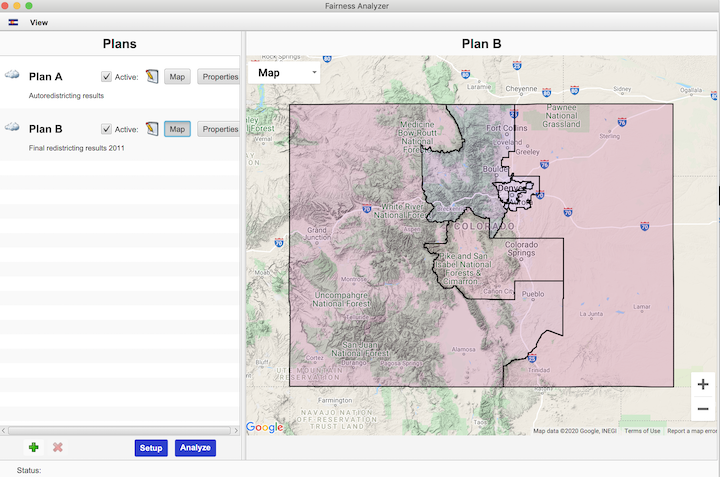
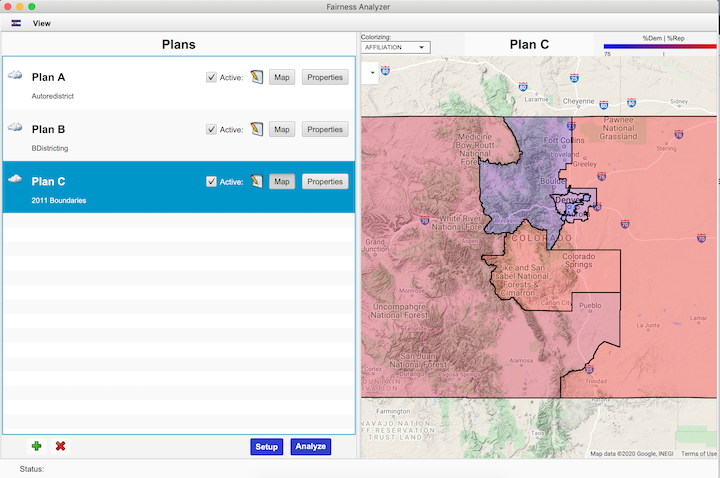
Doc updates.

diff --git a/docs/user-guide.md b/docs/user-guide.md
@@ -1,10 +1,10 @@
 ## Redistrict Colorado
 ## User Guide
 *FairnessAnalyzer* is designed to answer the question "Which is fairer?" when dealing with competing redistricting plans. The user configures plans and controls their evaluation based on a collection of external datasets which contain
-district geometries, voter
-affiliation and demographic information. This guide walks through the use and installation of the application.  
+plan geometries, voter
+affiliation and demographic information. The application computes an array of metrics for the purpose of comparing two or more redistricting plans for fairness. See the [Comparisons](#Comparisons) page to view the final results.
 
- The application computes an array of metrics for the purpose of comparing two or more redistricting plans for fairness. The criteria used are largely based on the work of Kevin Baas and his [autoredistrict](http://autoredistrict.org/index.php) project.
+ This guide walks through the use and installation of the application.
 
  ### Table of Contents <a id="table-of-contents"></a>
 
@@ -13,6 +13,7 @@ affiliation and demographic information. This guide walks through the use and in
     * [Calculations](#calculations)
       * [Setup](#setup)
       * [Metrics](#metrics)
+      * [Comparisons](#comparisons)
  * [Datasets](#datasets)
     * [Attribute Aliases](#aliases)
     * [Sources](#sources)
@@ -21,12 +22,12 @@ affiliation and demographic information. This guide walks through the use and in
 
 ### Overview <a id="overview"></a>
 
-![SplitPane](/images/application_plans.png)
+![SplitPane](/images/splash_screen.png)
 ```                  Splash Screen     ```
 
 The application's main interface is a split pane with
 actions in the left side controlling what is displayed on the right. A *View* menu controls which of three contexts is displayed. The contexts are:
- * Plans - these are the redistricting plans. Each plan is based on a dataset containing voting district boundaries. The plan context includes a setup pane for configuration of the weightings, affiliation and demographic datasets necessary for plan evaluation. Most importantly, this context includes an analysis screen which shows the result of side-by-side comparisons.
+ * Plans - these are the redistricting plans. Each plan is based on a dataset containing voting district boundaries. The plan dialogs include a setup pane for configuration of the weightings, affiliation and demographic datasets necessary for plan evaluation. Most importantly, there is an analysis screen which shows the result of side-by-side comparisons.
  * Datasets - a dataset holds information necessary for the construction and evaluation of a plan. Datasets are not part of the application as distributed, but are loaded in from files downloaded independently. Datasets correspond to a "shapefile" and contain geographic and other information.
  * Districts - a voting district is one of the regions of a dataset. The purpose of the *district* screen is to view boundary details of a dataset.
 
@@ -35,20 +36,23 @@ actions in the left side controlling what is displayed on the right. A *View* me
 
 ### Plans <a id="plans"></a>
 The figure below shows the plan superimposed over a Google Map. The Google Map has
-controls for pan, zoom and map type. The map is colorized to indicate the
-predominant affiliation within each district. Additionally a 'click' within a
-district will popup an information window with metrics for that district.
+controls for pan, zoom and map type. As shown map areas are colored to indicate the
+predominant affiliation within each district. The legend shows the numerical range
+associated with the color range. Other colorizing options include color coding by
+racial makeup of the district, and no colorization at all.
 
 ![MapOverlay](/images/plan_map.png)
 ```                  Plan Overlay Onto Google Maps     ```
 
-This view is accessible only if there is a current internet connection.
+A 'click' within a
+district will popup an information window with metrics for that district. Map views are accessible only if there is a current internet connection
+and the user has entered a valid Google key.
 
-The next figure shows the plan context after selection of a "Properties" button. The screen shows aggregated quantities by district
+The next figure shows the plan dialog after selection of a "Properties" button. The screen shows aggregated quantities by district
 based on the boundary, affiliation and demographics datasets selected for the analysis. When this page is first selected,
-application computes the aggregated values. This is a compute-intensive
+the application computes aggregated values. This is a compute-intensive
 process and may take as long as a minute or two. Once the
-calculations have been made, results are cached for speedy access.
+calculations have been made, results are cached for speed in subsequent accesses.
 
 ![Plan Properties](/images/plan_properties.png)
 ```                  Plan Properties     ```
@@ -75,7 +79,7 @@ Before the comparison can be made, the criteria for making that comparison must 
 ![Setup](/images/metric_setup.png)
 ```                  Comparison Setup    ```
 
-Additionally, parameters are defined for each of the separate metrics (with the exception of the `Composite`). This includes a weighting that defines the relative importance of the particular metric. A range is also set to define the best and worst possible numeric values for the metric. This allows the values to be reasonably scaled with respect to each other.
+Additionally, parameters are defined for each of the separate metrics (with the exception of the `Composite`). This includes a weighting that defines the relative importance of the particular metric. A range is also set to define the best and worst possible numeric values for the metric. This allows the values to be reasonably scaled with respect to each other. The "Info" button on the weightings table displays a screen for suggestions of reasonable limits for each metric.
 
 ##### Metrics <a id="metrics"></a>
 ###### Compactness:
@@ -161,6 +165,15 @@ from unfair-to-fair are taken from the setup screen.
 
 The overall metric calculation assigns a value
 From 0-10 for each of the other metrics depending on how the score falls within the specified range. The composite result is simply the weighted average of the individual scores.  
+
+###### Comparisons <a id="comparisons"></a>
+The results page shows the evaluations for each plan as well as the overall score. The evaluations are presented as bar charts with the bars ordered with the "best" result on top. Depending on the metric a "good" result may be the smallest numbetr
+
+![Results](/images/plan_comparisons.png)
+```                  Results    ```
+
+Clicking on any of the comparison boxes will display a detail screen with additional statistics Which
+support the results shown in the graphs. The makeup of these statistics changes with the metric.
 
 ### Datasets <a id="datasets"></a>
 

diff --git a/README.md b/README.md
@@ -3,6 +3,6 @@
 
 The tool is a desktop application that takes "Shapefile" maps of district boundaries and combines them with population and voter affiliation statistics to generate an array of metrics. The ultimate goal is a comparison competing plans for fairness.
 
-For details on operation of the application and a thorough description of the algorithms used, see the [User Guide](http://github.com/chuckcoughlin/redistrict-colorado/tree/master/docs/user-guides.md). For development details including attribution for open source components, see the [Toolchain Manual](http://github.com/chuckcoughlin/redistrict-colorado/tree/master/docs/toolchain.md). [Release Notes](http://github.com/chuckcoughlin/redistrict-colorado/tree/master/docs/release-notes.md) contain a history of feature development.
+For details on operation of the application and a thorough description of the algorithms used, see the [User Guide](http://github.com/chuckcoughlin/redistrict-colorado/tree/master/docs/user-guide.md). For development details including attribution for open source components, see the [Toolchain Manual](http://github.com/chuckcoughlin/redistrict-colorado/tree/master/docs/toolchain.md). [Release Notes](http://github.com/chuckcoughlin/redistrict-colorado/tree/master/docs/release-notes.md) contain a history of feature development.
 
  Note that the datasets which define plan boundaries, demographics and voter affiliations are not part of the application. They must be downloaded separately. The [Datasets](https://github.com/chuckcoughlin/redistrict-colorado/tree/master/docs/datasets.md) document lists publicly-available sources that have been successfully utilized in the application.
